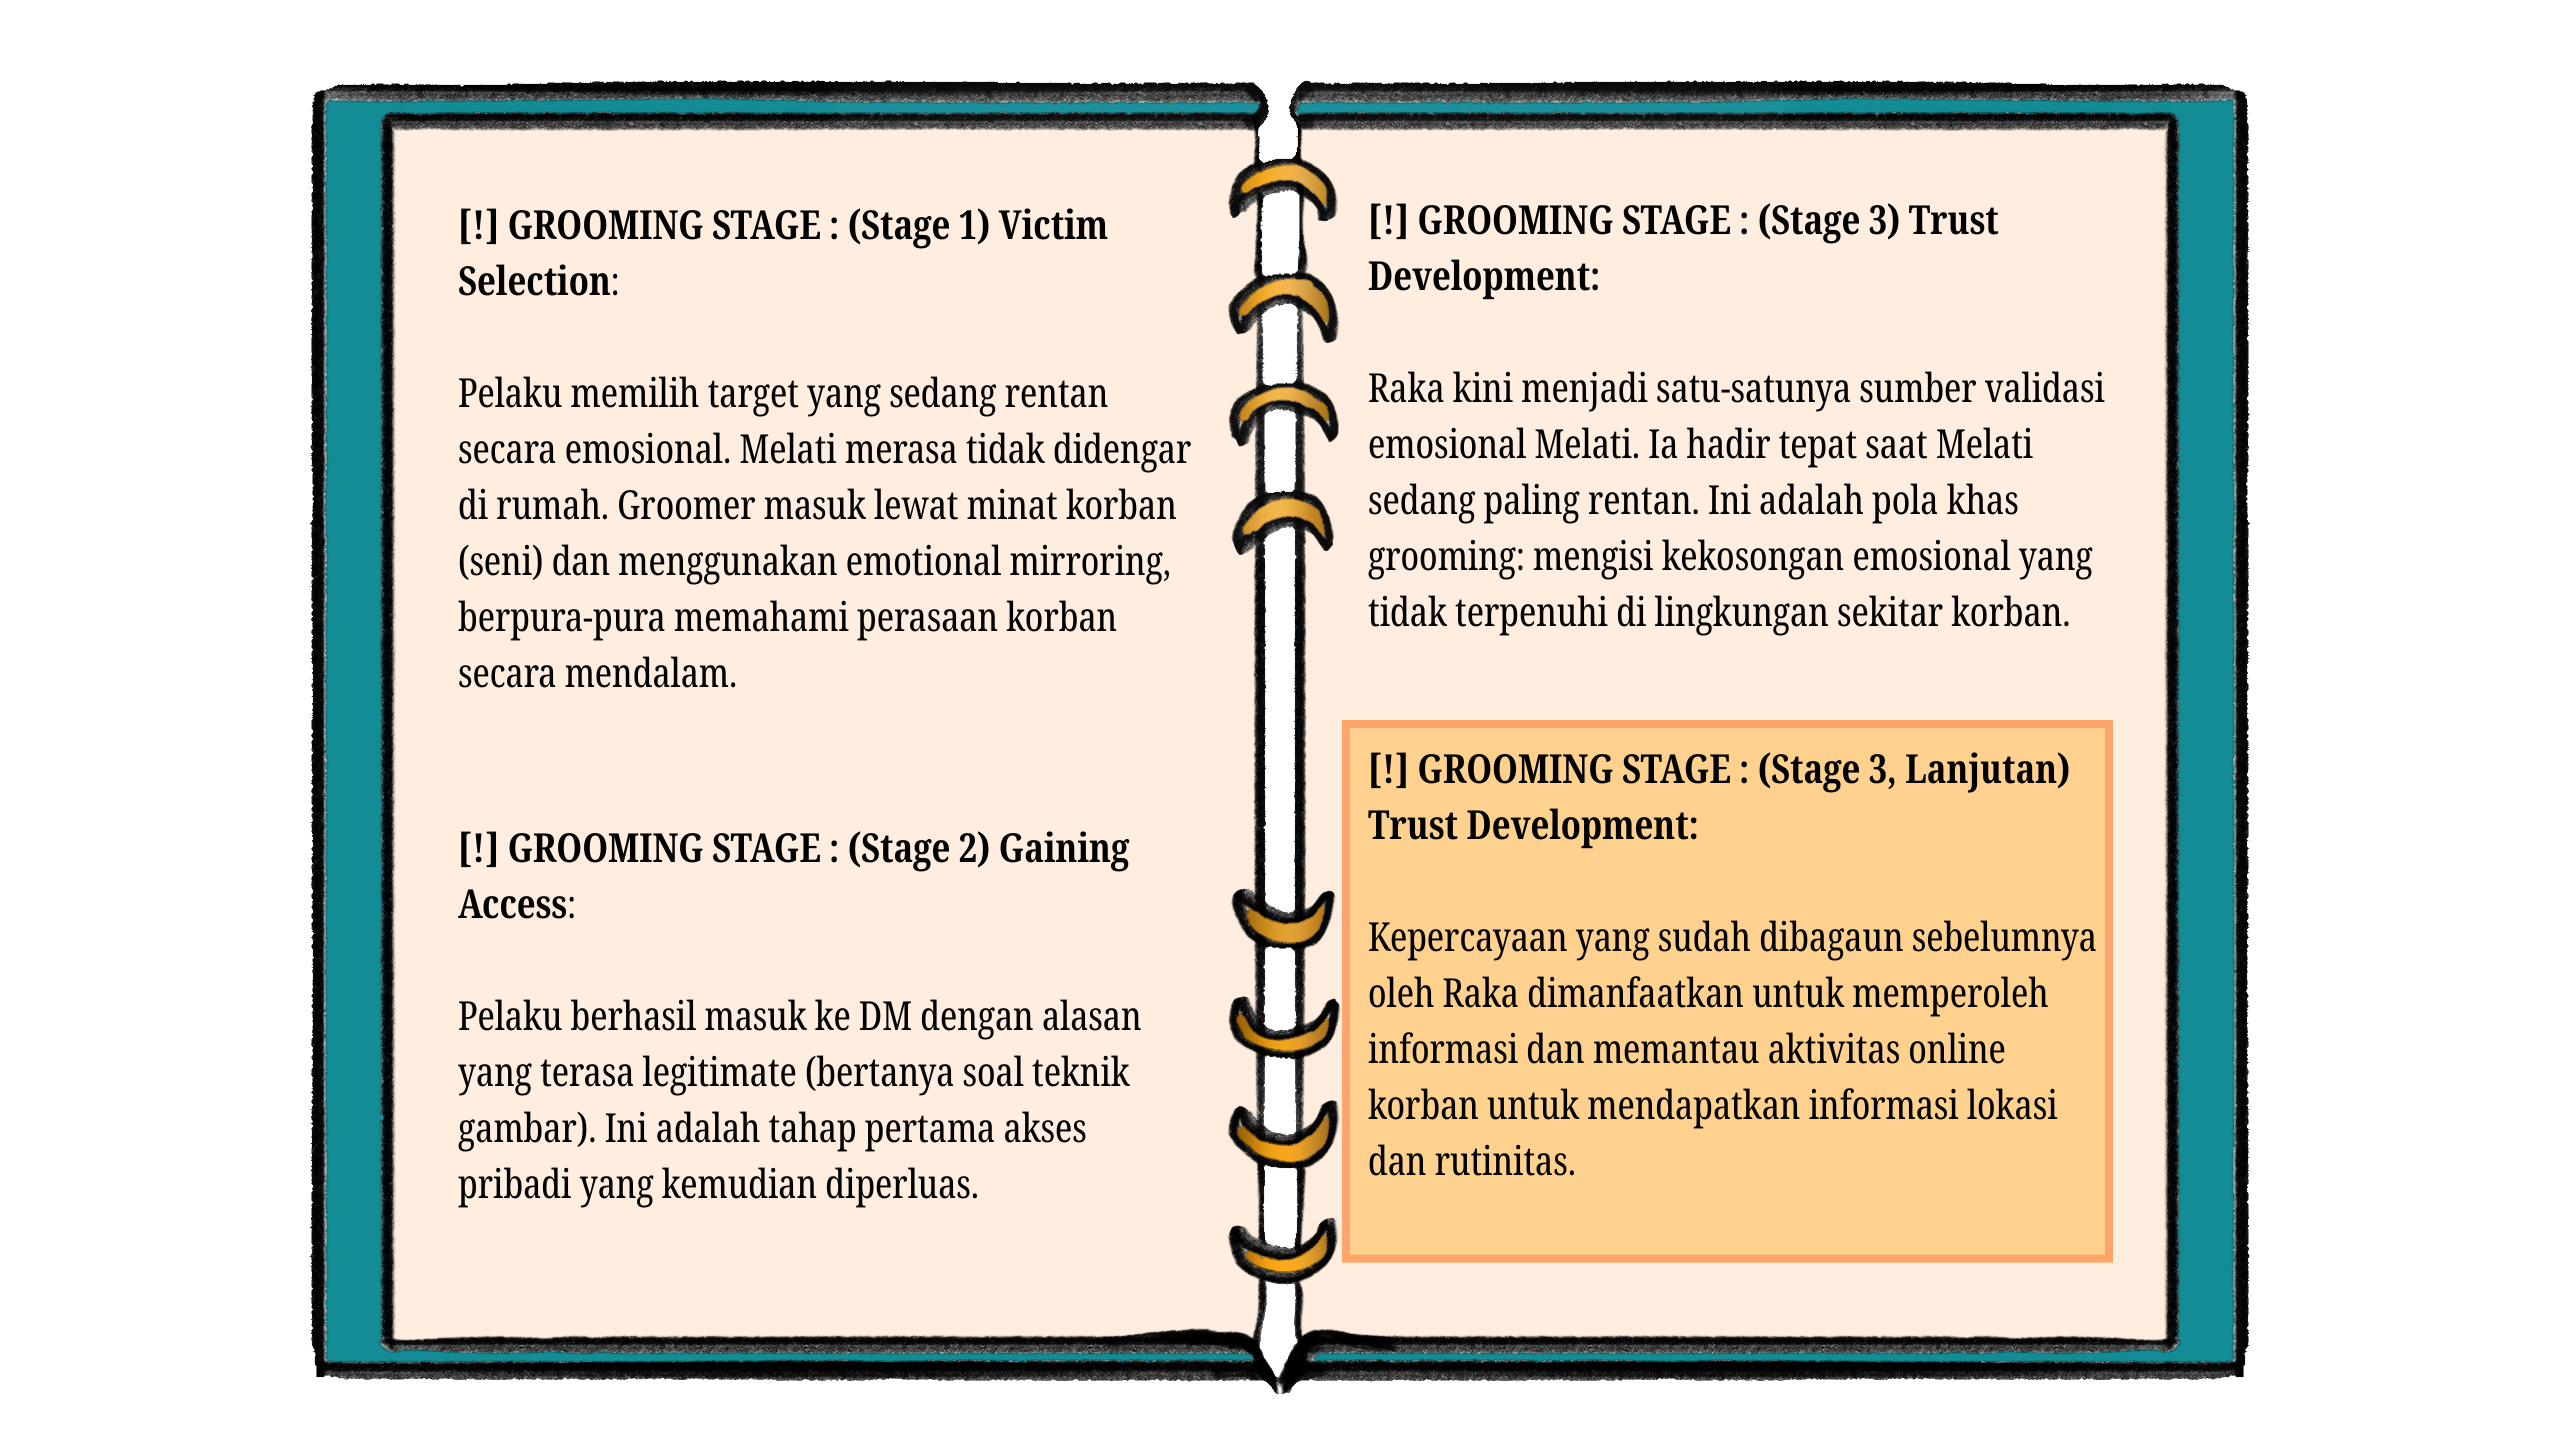
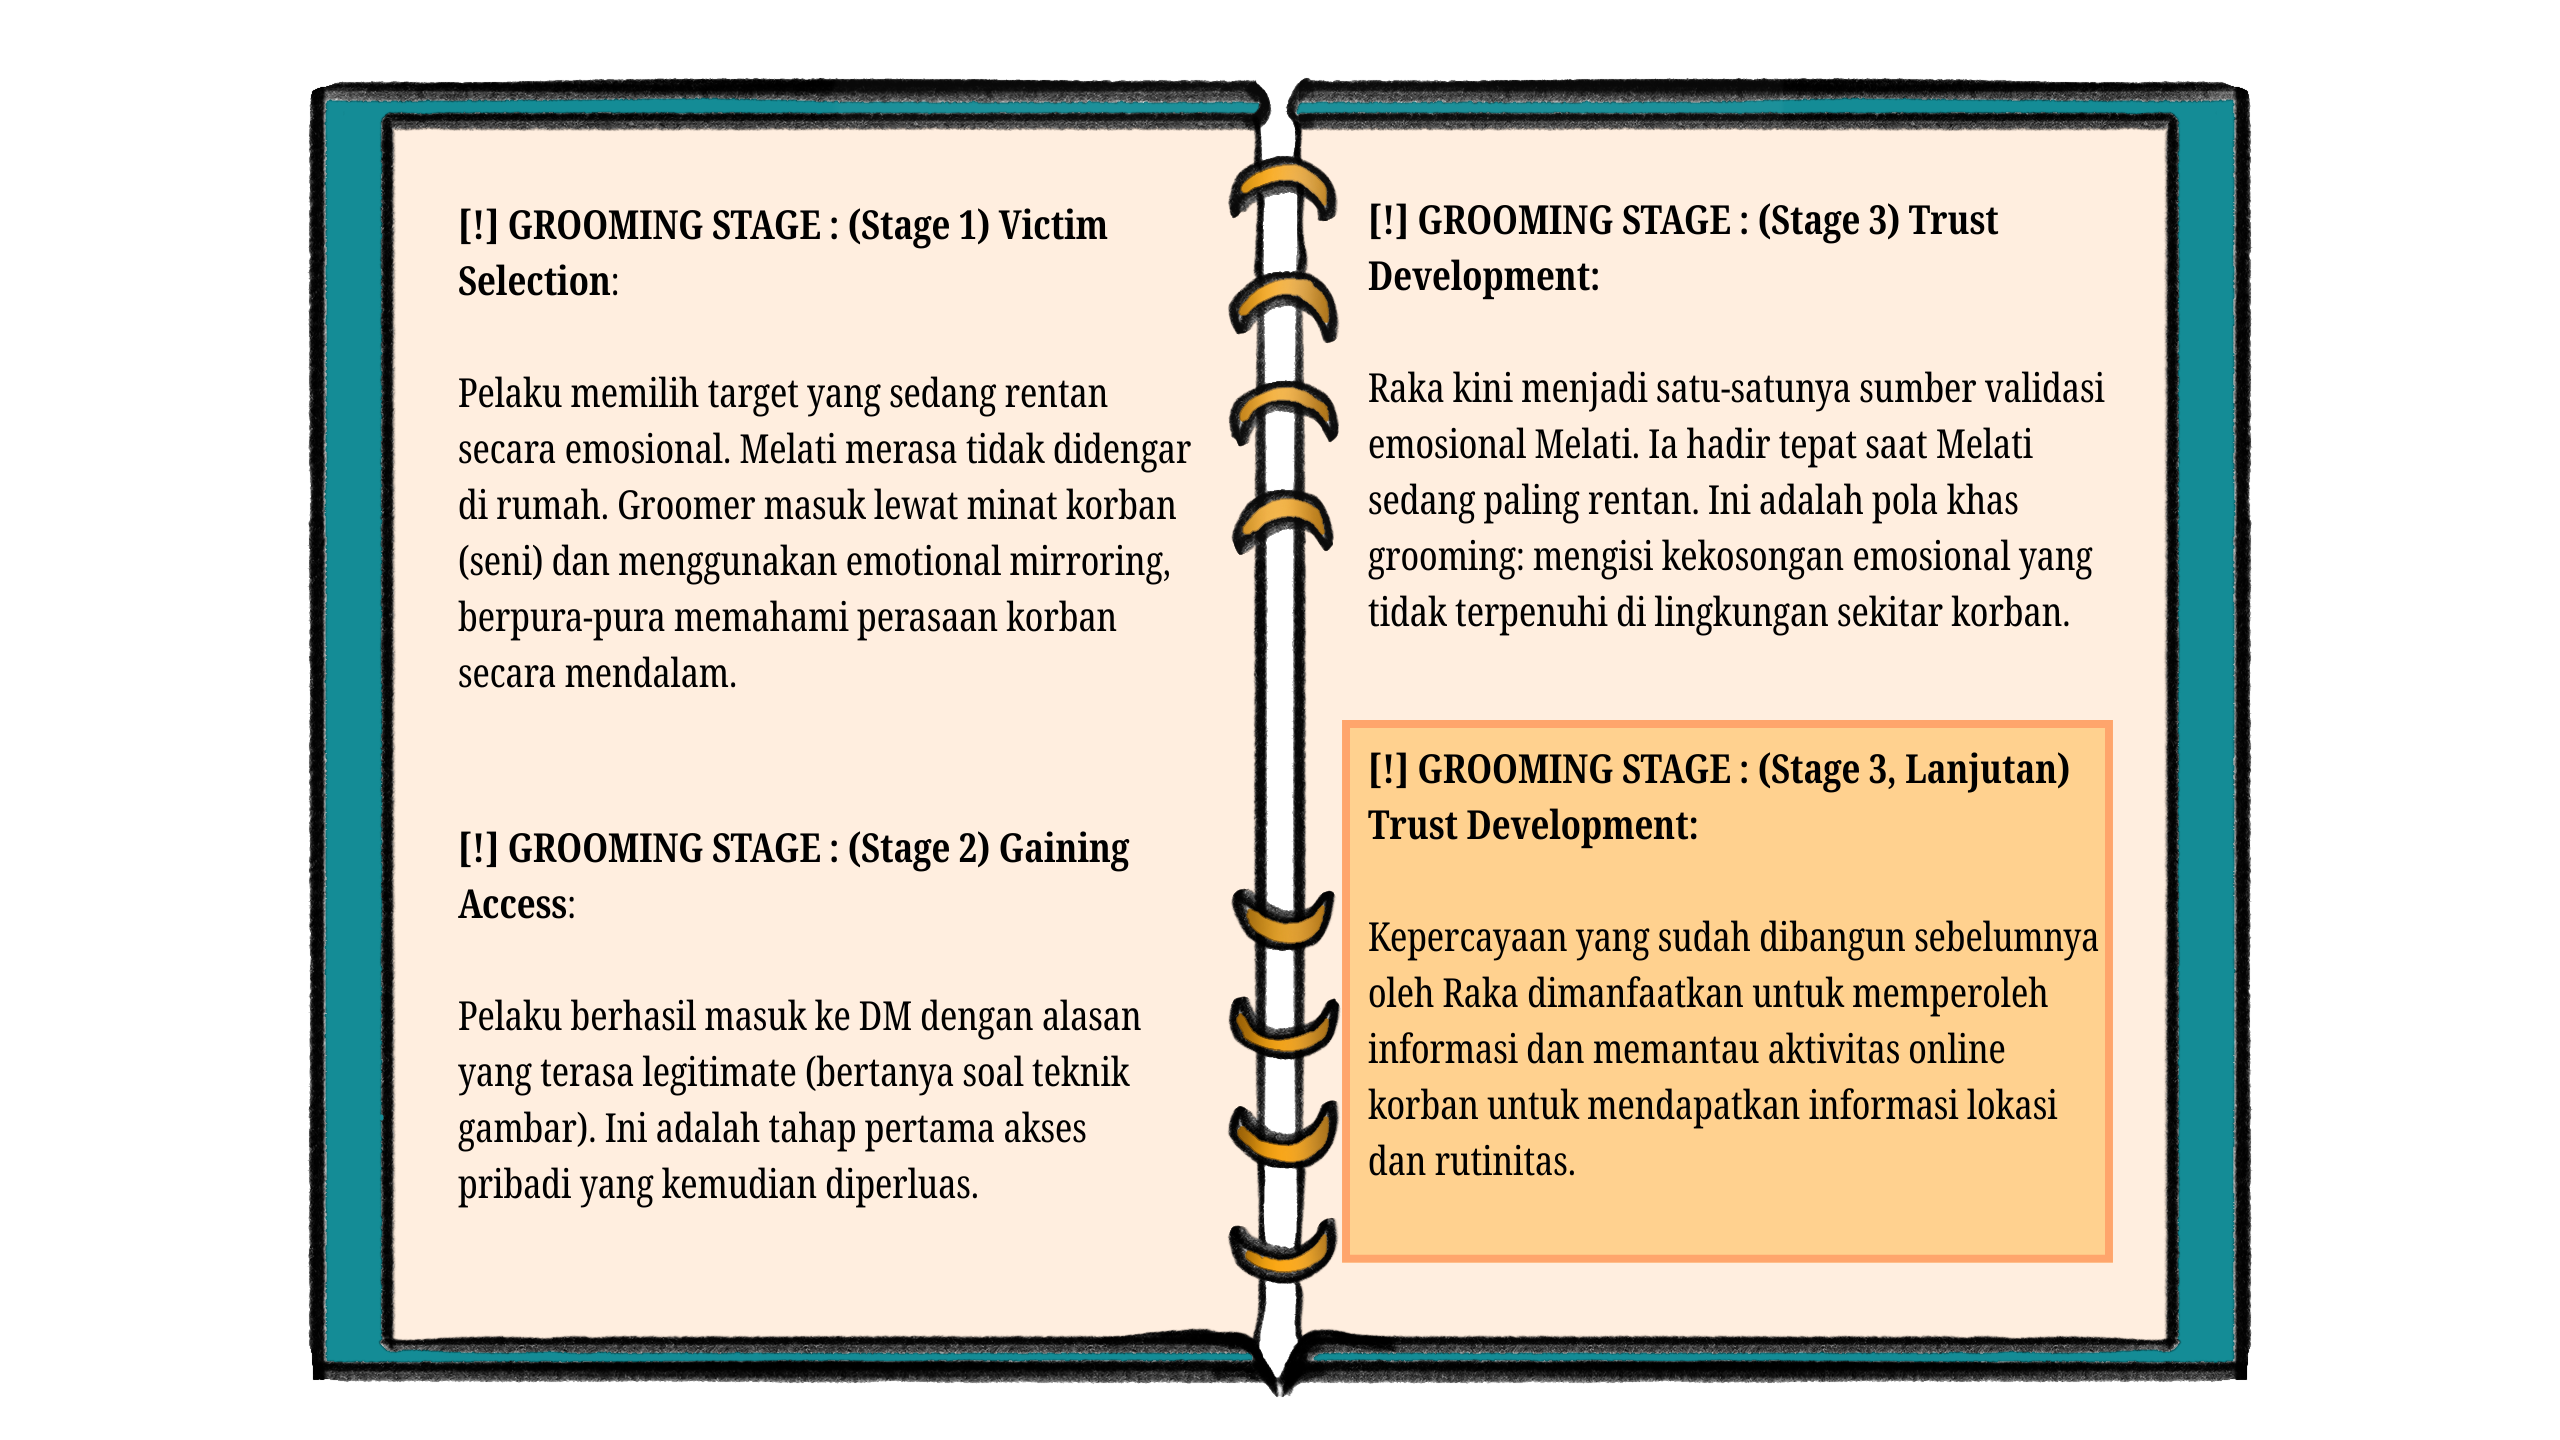
revisi

Changed region(s): [[0.7188, 0.625, 0.8125, 0.6875]]

diff --git a/src/components/story/SceneRenderer.tsx b/src/components/story/SceneRenderer.tsx
@@ -179,7 +179,7 @@ export default function SceneRenderer({
           completedCount={scene.id === "day2_029" ? completedCount : undefined}
           totalCount={scene.id === "day2_029" ? 4 : undefined}
           hint={
-            scene.id === "galeri_001" || scene.id === "day2_029"
+            scene.id === "galeri_001"
               ? "Klik tombol → pada keyboard untuk melanjutkan"
               : undefined
           }
